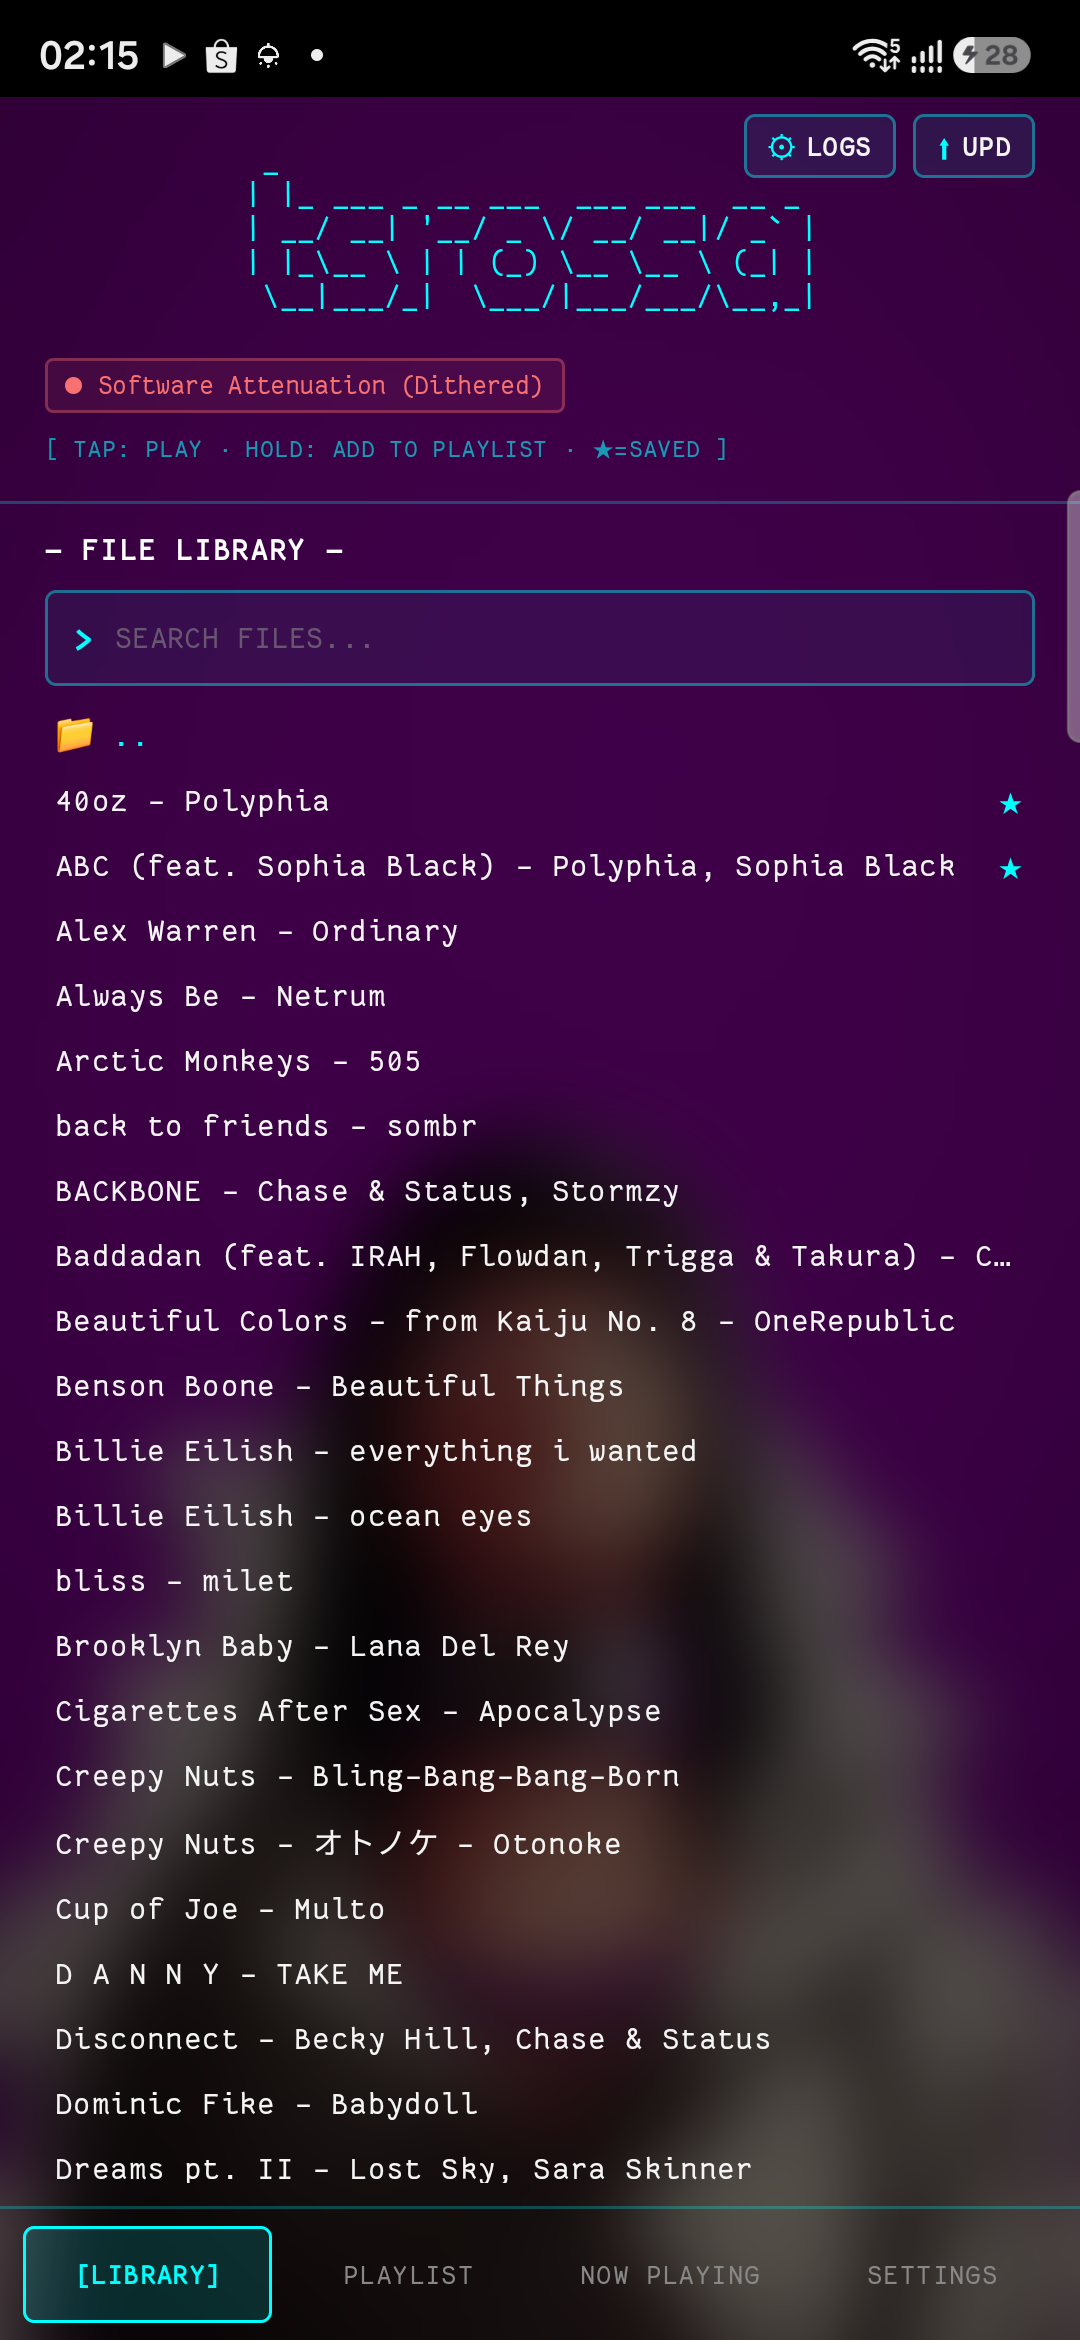
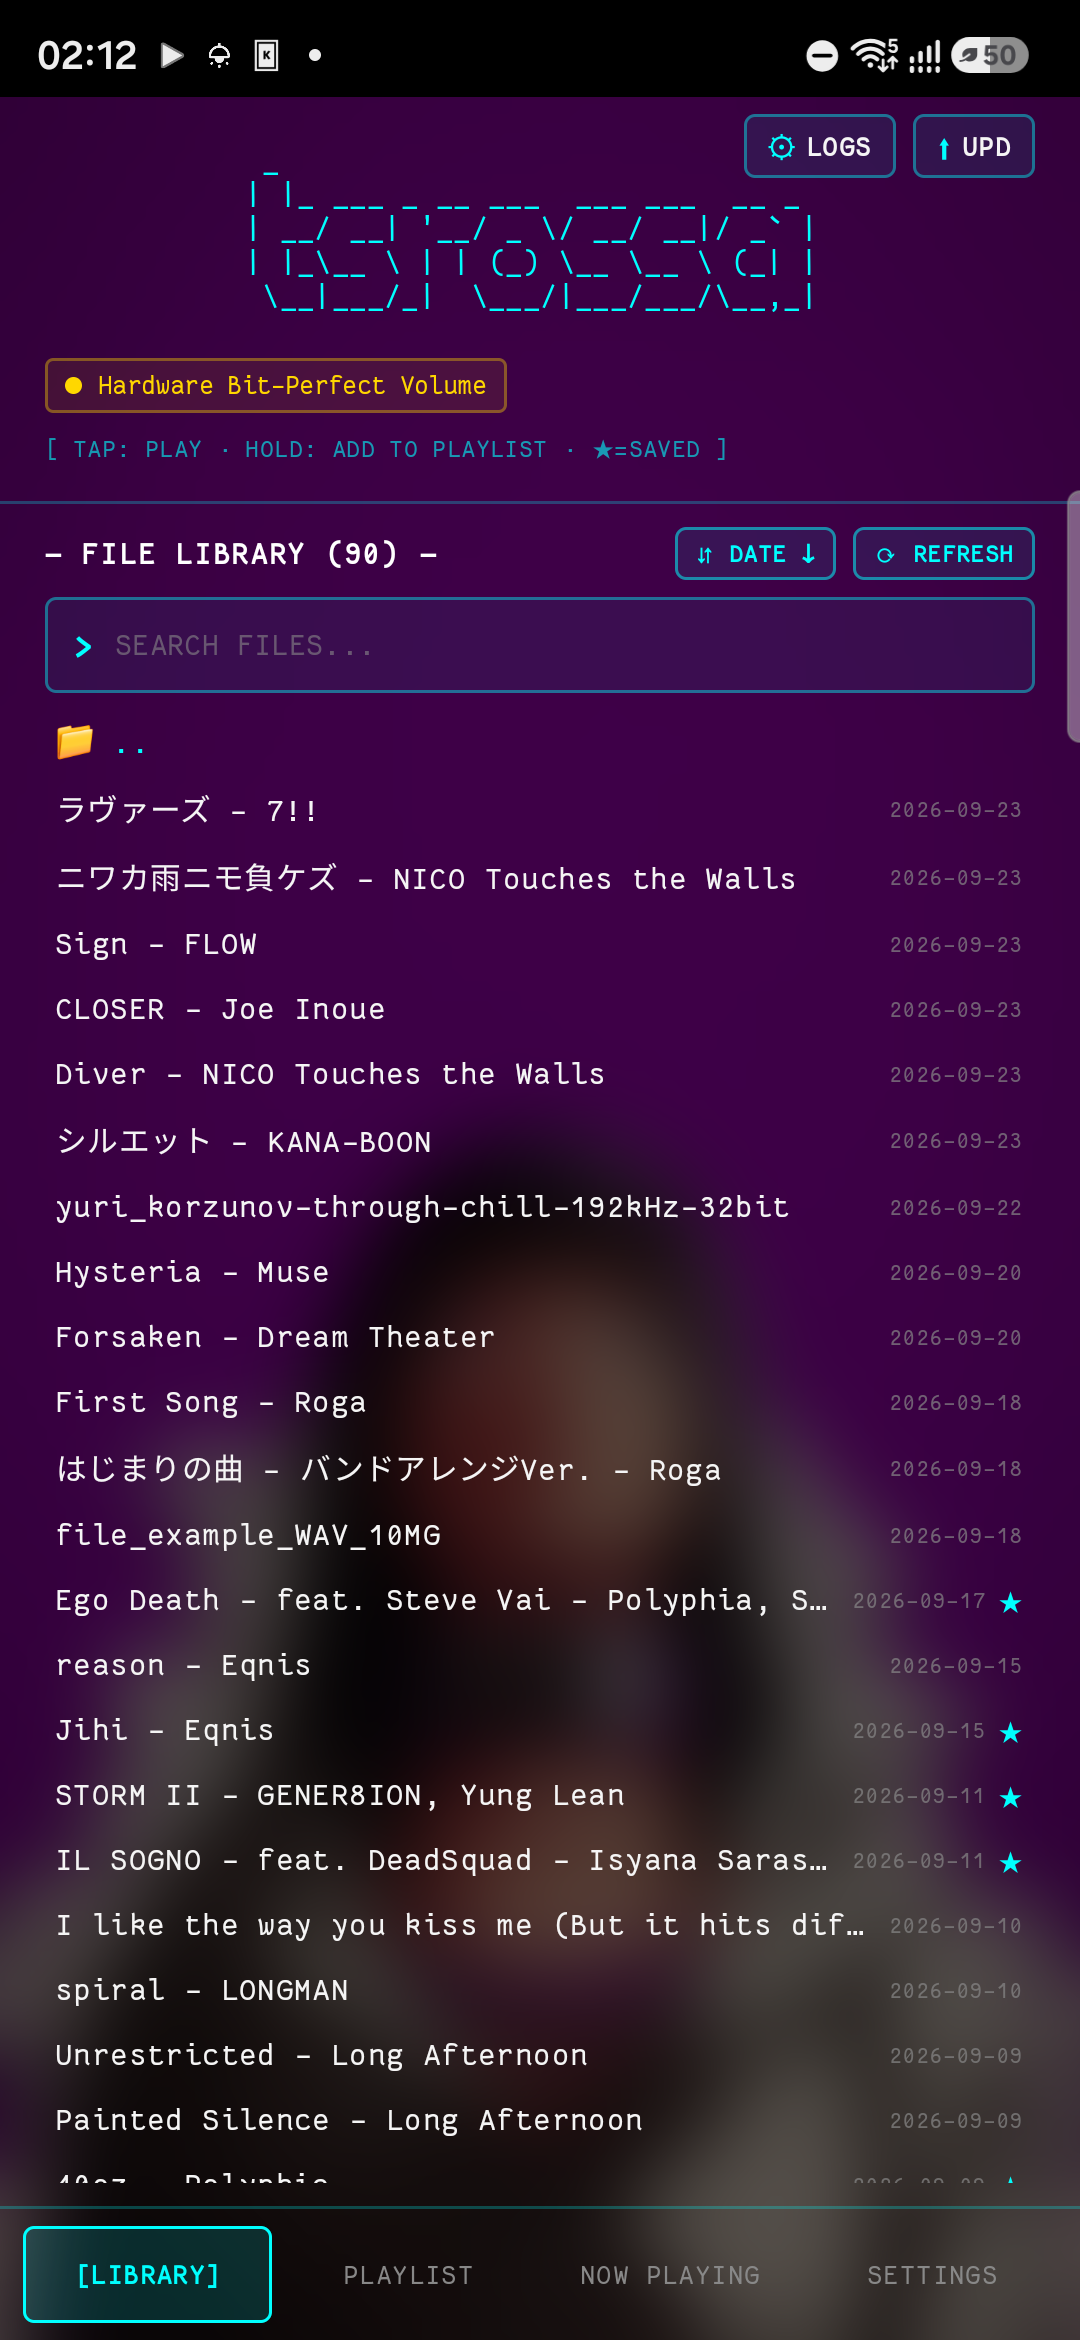
docs: rewrite README with professional technical tone and update library screenshot

diff --git a/README.md b/README.md
@@ -2,136 +2,162 @@
   <img src="tsrossa.png" alt="tsrossa Banner" width="100%"/>
 </p>
 
-<h1 align="center">tsrossa — Audiophile Music Player</h1>
+<h1 align="center">tsrossa</h1>
 
 <p align="center">
-  <strong>Direct Kernel-Level USB DAC (UAC1/UAC2) Bit-Perfect Music Player for Android with Native C++ Engine</strong>
+  <strong>Direct-to-DAC Bit-Perfect USB Audio Player for Android</strong><br/>
+  High-fidelity C++17 audio engine bypassing Android AudioFlinger via kernel-level USB transport.
 </p>
 
 <p align="center">
-  <a href="LICENSE"><img src="https://img.shields.io/badge/License-Apache%202.0-blue.svg" alt="License"></a>
-  <a href="release/app-release.apk"><img src="https://img.shields.io/badge/Release-v1.2.0--beta2-orange.svg" alt="Release"></a>
-  <a href="#"><img src="https://img.shields.io/badge/Platform-Android%208.0%2B-green.svg" alt="Platform"></a>
+  <a href="release/app-release.apk"><img src="https://img.shields.io/badge/Release-v1.2.0--beta3-orange.svg" alt="Release v1.2.0-beta3"></a>
+  <a href="#"><img src="https://img.shields.io/badge/Platform-Android%208.0%2B-2ea44f.svg" alt="Platform"></a>
+  <a href="#"><img src="https://img.shields.io/badge/Engine-Native%20C%2B%2B17%20%2F%20libusb-0052cc.svg" alt="Engine"></a>
+  <a href="#"><img src="https://img.shields.io/badge/Audio-Bit--Perfect%20UAC1%20%7C%20UAC2-success.svg" alt="Audio"></a>
   <a href="#"><img src="https://img.shields.io/badge/Formats-FLAC%20%7C%20WAV-blueviolet.svg" alt="Supported Formats"></a>
-  <a href="#"><img src="https://img.shields.io/badge/Audio-Bit--Perfect%20UAC2-success.svg" alt="Bit-Perfect"></a>
-  <a href="https://bagibagi.co/Yukaatsu"><img src="https://img.shields.io/badge/Buy%20me%20a%20coffee-Donate-FFDD00.svg?logo=buy-me-a-coffee&logoColor=black" alt="Buy me a coffee"></a>
+  <a href="LICENSE"><img src="https://img.shields.io/badge/License-Apache%202.0-lightgrey.svg" alt="License"></a>
+  <a href="https://bagibagi.co/Yukaatsu"><img src="https://img.shields.io/badge/Donate-BagiBagi-FFDD00.svg?logo=buy-me-a-coffee&logoColor=black" alt="Support"></a>
 </p>
 
 ---
 
-## ⚡ Overview
+## Overview
 
-**tsrossa** is a lightweight, open-source Bit-Perfect audiophile music player for Android. It bypasses the standard Android OS mixer (`AudioFlinger`) and communicates directly with external USB DACs at the kernel level using a custom native C++17 `libusb-1.0` asynchronous isochronous engine.
+**tsrossa** is an open-source, bit-perfect music player developed specifically for audiophile USB DAC setups on Android. 
 
-Playback is streamed with zero resampling, zero DSP alterations, and exact clock synchronization for pristine audio fidelity.
+Standard Android audio architectures route playback through the system `AudioTrack` API and `AudioFlinger` mixing service. This pipeline enforces fixed 48 kHz sample-rate conversion (SRC), applies non-linear software digital volume attenuation, and introduces buffer jitter through multiple OS layers.
+
+tsrossa eliminates the entire Android audio framework. By querying Android's USB Host API solely to acquire the raw device file descriptor (`usbfs`), the native C++17 engine interfaces directly with external DACs using `libusb-1.0`. PCM streams are transmitted directly across asynchronous USB Isochronous endpoints with exact hardware clock configuration, zero sample-rate conversion, zero DSP processing, and true unity gain.
 
 ---
 
-## 📸 Interface Preview
+## Interface
 
 <table align="center">
   <tr>
     <td align="center" width="33%">
-      <img src="screenshots/01_now_playing.png" alt="Now Playing" width="100%"/>
-      <br/><b>Now Playing</b><br/>
-      <sub>Pac-Man seek bar, dynamic album art palette, hardware volume dial</sub>
+      <img src="screenshots/01_now_playing.png" alt="Now Playing HUD" width="100%"/>
+      <br/><b>Now Playing HUD</b><br/>
+      <sub>Terminal interface with Pac-Man seek bar, dynamic album art palette, and hardware volume dial</sub>
     </td>
     <td align="center" width="33%">
-      <img src="screenshots/02_library.png" alt="Library Browser" width="100%"/>
-      <br/><b>Library Browser</b><br/>
-      <sub>Fast file navigation with sleek terminal search and codec tags</sub>
+      <img src="screenshots/02_library.png" alt="File Library" width="100%"/>
+      <br/><b>File Library</b><br/>
+      <sub>Hierarchical file browser with Date/Name sorting, one-tap directory refresh, and timestamp indexing</sub>
     </td>
     <td align="center" width="33%">
-      <img src="screenshots/03_system_logs.png" alt="Live Diagnostics" width="100%"/>
-      <br/><b>Live Diagnostics</b><br/>
-      <sub>Real-time DAC telemetry, clock locking, and 1-tap report export</sub>
+      <img src="screenshots/03_system_logs.png" alt="Hardware Telemetry" width="100%"/>
+      <br/><b>Hardware Telemetry</b><br/>
+      <sub>Real-time UAC2 endpoint negotiation, hardware clock verification, RAM buffer state, and 1-tap report export</sub>
     </td>
   </tr>
 </table>
 
 ---
 
-## 🚀 Key Features
+## Architecture & Engineering
 
-- **100% AudioFlinger Bypass**: Direct USB Host access prevents Android's forced 48kHz resampling and system audio degradation.
-- **Lossless & Uncompressed Playback**: Native decoding of **FLAC** (`.flac`) and **WAV** (`.wav`, `.wave`) from 16-bit/44.1kHz up to 32-bit/384kHz (including IEEE 32-bit Float).
-- **Hardware Volume Control**: Native logarithmic gain adjustment via USB Feature Units (indicated by a Gold Status Dot for true unity gain).
-- **Retro-Cyberpunk HUD**: Terminal monospaced interface with an interactive Pac-Man animated seek bar, dark AMOLED theme, and album art accent lighting.
-- **True Gapless Playback**: Native pre-buffering delivers seamless track handovers without silence or clicks.
-- **In-App Updater & Hotplug Safety**: Built-in GitHub release updater and graceful USB disconnection handling to prevent crashes.
+### 1. Direct Kernel USB Transport (`usbfs` + `libusb-1.0`)
+- Circumvents `AudioTrack`, `AudioFlinger`, and vendor audio HAL layers entirely.
+- Establishes a dedicated native C++ transfer loop utilizing Linux `usbfs` handles.
+- Schedules asynchronous Isochronous transfers directly to the DAC's audio streaming endpoint.
+
+### 2. Hardware Clock & Rate Negotiation (UAC1 / UAC2)
+- Inspects USB Audio Class descriptors to map physical Clock Source and Clock Selector entities.
+- Configures sample rates directly at the hardware crystal oscillator via `CS_SAMPLING_FREQ_CONTROL` requests.
+- Eliminates Android's mandatory 48 kHz resampler: 44.1 kHz audio remains native 44.1 kHz, 96 kHz remains 96 kHz, up to 384 kHz.
+
+### 3. In-Memory PCM Preload & Memory Locking (`mlock`)
+- Decodes FLAC and WAV files into an uncompressed 32-bit linear PCM memory buffer prior to playback.
+- Uses POSIX `mlock()` to lock audio pages in physical RAM, preventing Linux kernel swapping, flash memory I/O spikes, and micro-stutters.
+
+### 4. Hardware Feature Unit Volume & True Unity Gain
+- Implements logarithmic volume attenuation directly on the DAC hardware via USB Feature Unit volume requests (`FU_VOLUME_CONTROL`).
+- Full volume (100% / 0.0 dB) engages true Bit-Perfect Unity Gain, preserving exact 0 dBFS dynamic range without digital math distortion.
+- An optional software 64-bit dithered attenuation fallback is available for DACs lacking hardware volume units.
+
+### 5. Gapless Streaming Handover
+- Secondary background worker decodes the next queued track into RAM prior to current track completion.
+- Seamlessly switches audio frames across endpoint boundaries without stream teardown, preventing pops, clicks, or timing gaps.
 
 ---
 
-## 💡 Obtaining FLAC Music (SpotiFLAC)
+## Technical Specifications
 
-Looking for lossless FLAC tracks to test bit-perfect playback with your DAC setup? You can obtain high-quality audio files using **SpotiFLAC**:
-
-- 🌐 **Official Website**: [spotiflac.com](https://spotiflac.com)
-- 📱 **SpotiFLAC Mobile GitHub**: [spotiflacapp/SpotiFLAC-Mobile](https://github.com/spotiflacapp/SpotiFLAC-Mobile)
-
----
-
-## 🧪 Beta Tester Guide & Testing Scope
-
-To provide clarity for community testers during the **Beta (v1.2.0-beta2)** phase, here is the scope of supported capabilities and recommended testing workflows:
-
-### ✅ Supported in This Version:
-| Category | Supported Specification & Testing Notes |
+| Parameter | Supported Range / Specification |
 | :--- | :--- |
-| **Audio Formats** | • **FLAC** (`.flac`): 16-bit, 24-bit, 32-bit integer PCM (44.1 kHz to 384 kHz)<br/>• **WAV** (`.wav`, `.wave`): 16-bit, 24-bit, 32-bit Linear PCM, and 32-bit IEEE Float |
-| **Audio Output** | **Dedicated to External USB DACs** via USB-C / OTG (Dongle DAC, Portable DAC/Amp, Desktop DAC) adhering to USB Audio Class (UAC1 / UAC2). |
-| **AudioFlinger Bypass** | **100% Direct Kernel USB** — Bypasses Android OS mixer; zero 48kHz forced resampling, zero DSP alterations. |
-| **Audio & Seek Controls** | In-app playback controls, Pac-Man animated seek bar, and **Android Lockscreen / MediaStyle notification drawer**. |
-| **Hardware Diagnostics** | Open **`[LOGS]`** to inspect real-time DAC negotiation, clock locking, and use **`[📋 COPY REPORT]`** or **`[↗ SHARE REPORT]`** to submit telemetry with bug reports. |
-| **In-App Updates** | Tap **`[UPD]`** in the top header or in Settings to automatically check and install new GitHub releases. |
+| **Supported Formats** | • **FLAC** (`.flac`): 16-bit, 24-bit, 32-bit integer PCM (44.1 kHz to 384 kHz)<br/>• **WAV** (`.wav`, `.wave`): 16-bit, 24-bit, 32-bit Linear PCM, and 32-bit IEEE Float |
+| **Output Target** | External USB DACs via USB-C OTG (Dongles, Portable DAC/Amps, Desktop DACs) |
+| **USB Audio Protocols** | USB Audio Class 1.0 (UAC1) and USB Audio Class 2.0 (UAC2) |
+| **Endpoint Sync** | Asynchronous and Adaptive Isochronous endpoints |
+| **Android Version** | Android 8.0 (API 26) through Android 15+ (API 35) |
+| **Permissions Required** | `android.permission.READ_MEDIA_AUDIO` / `READ_EXTERNAL_STORAGE`, `USB_PERMISSION` |
 
-### ❌ Out of Scope / Not Supported in Beta:
-- ❌ **Lossy Compressed Formats**: Formats such as **MP3, AAC, M4A, OGG, WMA** are intentionally omitted from this bit-perfect engine.
-- ❌ **Native DSD / DSF / DFF**: Planned for a future release via DoP (DSD over PCM).
-- ❌ **Built-in Phone Speakers & 3.5mm Headphone Jack**: This application is strictly an audiophile driver for **external USB DACs**. An external USB DAC is required for playback.
-- ❌ **Inline Headset Cable Remote Buttons**: Intentionally bypassed to ensure kernel isochronous DMA streaming stability is not interrupted by OS input events.
-
-### 💬 Feedback & Bug Reports
-Since Android USB host implementations and external DAC chipsets vary widely across devices, your feedback and test reports are invaluable! Please share diagnostic logs or feedback on [GitHub Issues](https://github.com/yukaatsu/tsrossa/issues).
+> **Design Scope**: tsrossa is designed strictly as a high-fidelity bit-perfect transport for external USB DACs. Built-in phone speakers, internal 3.5mm jacks, and lossy formats (MP3, AAC, OGG) are intentionally excluded to keep the native audio pipeline clean and uncompromised.
 
 ---
 
-## 📥 Installation
+## Test Audio Source
 
-1. Download the latest signed APK:
-   - 📦 **Direct Download**: [`release/app-release.apk`](release/app-release.apk)
-   - 🚀 **GitHub Releases**: [tsrossa Releases](https://github.com/yukaatsu/tsrossa/releases)
-2. Install the APK on your Android device (Android 8.0+).
-3. Connect your USB DAC via OTG cable and tap **OK** when prompted for USB permissions.
+For testing bit-perfect playback with high-resolution FLAC files:
+- **SpotiFLAC**: [spotiflac.com](https://spotiflac.com)
+- **SpotiFLAC Mobile**: [GitHub Repository](https://github.com/spotiflacapp/SpotiFLAC-Mobile)
 
 ---
 
-## 📱 Compatibility
+## Quick Start
 
-- **Android Versions**: Android 8.0 (Oreo, API 26) to Android 14+ (API 34).
-- **USB DAC Support**: Standard USB Audio Class 1.0 (UAC1) and 2.0 (UAC2) devices.
-- **Tested DACs**: ESS Sabre, AKM, Cirrus Logic (CS43131/CS43198), Realtek, Conexant, Savitech, and more.
+### Installation
+1. Download the latest release:
+   - **Direct APK**: [`release/app-release.apk`](release/app-release.apk)
+   - **GitHub Releases**: [tsrossa Releases](https://github.com/yukaatsu/tsrossa/releases)
+2. Install the APK on your device.
+3. Connect your USB DAC via OTG. Grant USB access permission when prompted.
+4. Select a FLAC or WAV file in the Library browser to begin bit-perfect playback.
+
+### Hardware Diagnostics
+Tap **`[LOGS]`** in the header to view the real-time hardware status modal:
+- Negotiated sample rate & bit depth
+- Active interface endpoints and UAC protocol version
+- Bit-perfect transmission verification
+- Zero-jitter RAM playback and gapless engine status
+
+Use **`[COPY REPORT]`** or **`[SHARE REPORT]`** to include hardware telemetry when opening an issue.
 
 ---
 
-## 🛠 Building From Source
+## Building from Source
 
+### Prerequisites
+- Android Studio Ladybug (or newer)
+- Android NDK (r25c or higher)
+- CMake 3.22.1+
+- JDK 17+
+
+### Build Instructions
 ```bash
+# Clone the repository
 git clone https://github.com/yukaatsu/tsrossa.git
 cd tsrossa
+
+# Build the release APK
 ./gradlew assembleRelease
 ```
-Compiled APK: `app/build/outputs/apk/release/app-release.apk`
+The compiled APK will be located at:
+`app/build/outputs/apk/release/app-release.apk`
 
 ---
 
-## ☕ Support
+## Support & Contributions
 
-If you enjoy **tsrossa**, you can support its ongoing development:
-👉 **[Buy me a coffee on BagiBagi](https://bagibagi.co/Yukaatsu)**
+If you find tsrossa useful for your portable audiophile setup, consider supporting ongoing development:
+
+[![Buy Me A Coffee](https://img.shields.io/badge/Donate-BagiBagi-FFDD00.svg?style=for-the-badge&logo=buy-me-a-coffee&logoColor=black)](https://bagibagi.co/Yukaatsu)
+
+Contributions, issue reports, and DAC compatibility logs are welcome on [GitHub Issues](https://github.com/yukaatsu/tsrossa/issues).
 
 ---
 
-## 📄 License
+## License
 
-Licensed under the [Apache License 2.0](LICENSE).
+tsrossa is distributed under the [Apache License 2.0](LICENSE).
